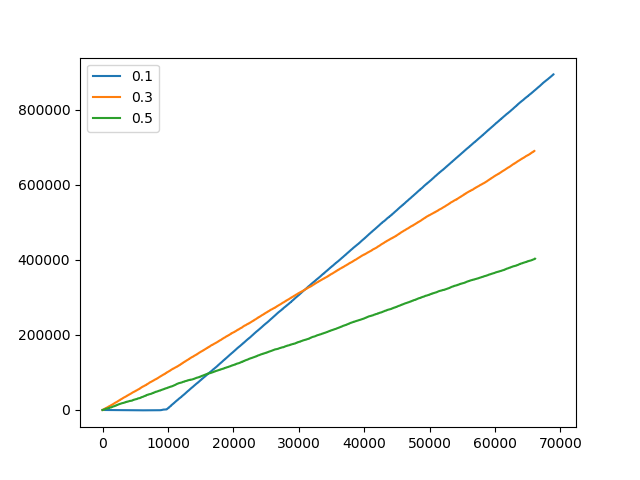
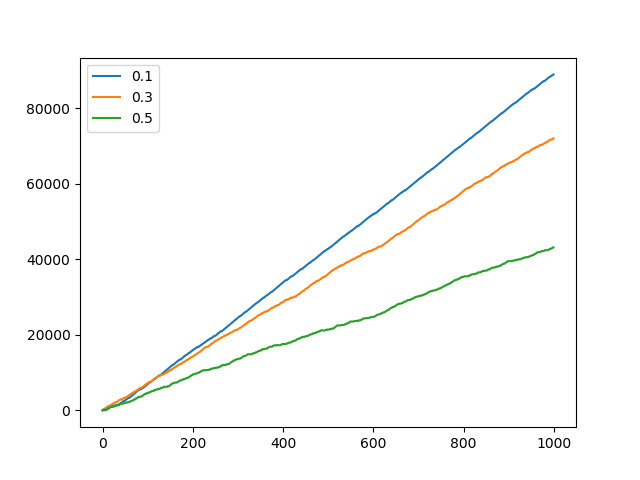
small add

diff --git a/value_iteration_files/Qlearning.py b/value_iteration_files/Qlearning.py
@@ -117,12 +117,12 @@ def replay(batch_size=10):
 rewards = []
 
 #Q-learning, standard. Choose for activating softmax or experience replay by setting their values on true.
-def run_episodes(softmax_enabled=False, experience_replay=False,epsilon=0.1, temperature = 0.5):
+def run_episodes(softmax_enabled=False, experience_replay=False,epsilon=0.1, temperature = 20):
     state = 12
     ship_taken = False
     cumulative_reward = 0
     penalty = 0
-    for i in range(10000):
+    for i in range(1000):
         while True:
             if not softmax_enabled:
                 if random.uniform(0, 1) < epsilon:
@@ -169,7 +169,7 @@ def run_episodesSARSA(epsilon=0.1):
     ship_taken = False
     cumulative_reward = 0
     penalty = 0
-    for i in range(10000):
+    for i in range(1000):
         if random.uniform(0, 1) < epsilon:
             # Check the action space
             action = np.random.choice(4)
@@ -180,10 +180,6 @@ def run_episodesSARSA(epsilon=0.1):
             new_state = env.index_of_state(rob.x, rob.y)
             reward = tile_reward((rob.x, rob.y), env, ship_taken)
             cumulative_reward += reward
-
-
-            if experience_replay:
-                memory.append([state, action, reward, new_state])
 
             if reward == -10:
                 penalty += 1
@@ -208,7 +204,7 @@ def run_episodesSARSA(epsilon=0.1):
                 break
     return cumulative_reward, penalty
 
-def softmax(state,temp=0.5):
+def softmax(state,temp=20):
     probs = np.zeros(4)
     for i in range(4):
         probs[i] = np.exp((np.array(qtable[state][i])/temp))
@@ -281,19 +277,19 @@ def run_episodesET(episodes, epsilon):
                 rob.y = STARTING_POS[1]
                 rob.direction = ""
                 break
-    state = 12
-    path = []
-    while state != 3:
-        max = np.argmax(qtable[state])
-        move_direction = action_dict[max]
-        location = [item for item in env.surroundings_of(state) if item[2] == move_direction][0]
-        new_state = env.index_of_state(location[0], location[1])
-        path.append(new_state)
-        print("Index: ", state, "Q value: ", qtable[state])
-        state = new_state
+    # state = 12
+    # path = []
+    # while state != 3:
+    #     max = np.argmax(qtable[state])
+    #     move_direction = action_dict[max]
+    #     location = [item for item in env.surroundings_of(state) if item[2] == move_direction][0]
+    #     new_state = env.index_of_state(location[0], location[1])
+    #     path.append(new_state)
+    #     print("Index: ", state, "Q value: ", qtable[state])
+    #     state = new_state
     #print(path)
 
-    return cumulative_reward, penalty, path
+    return cumulative_reward, penalty
 
 #run_episodes(softmax_enabled=False)
 # run_episodes(softmax_enabled=False, experience_replay=True)
@@ -305,13 +301,13 @@ cuml_rewards = []
 paths = []
 penaltys = []
 epsilon_tests = [0.1,0.3,0.5]
-temp_tests = [0.5,0.8]
+temp_tests = [20,50,100]
 for e in epsilon_tests:
-    for i in range(1):
+    for i in range(5):
         t1 = t.time()
-        cuml_reward, penalty = run_episodes(softmax_enabled=False, experience_replay=True,epsilon=e)
+        cuml_reward, penalty = run_episodes(softmax_enabled=False, experience_replay=False,epsilon=e)
         #cuml_reward, penalty = run_episodesSARSA(epsilon=e)
-        #cuml_reward, penalty, path = run_episodesET(10000, epsilon=e)
+        #cuml_reward, penalty= run_episodesET(1000, epsilon=e)
         t2 = t.time()
         print("Time elapsed:",t2-t1)
 
@@ -330,7 +326,7 @@ for e in epsilon_tests:
     rewards = []
     print(rewards)
 plt.legend()
-plt.savefig("plots_qlearn_eligibilitytraces2.png")
+plt.savefig("plots_qlearn.png")
 
 print(cuml_rewards)
 # print(cuml_rewards_per_e)
